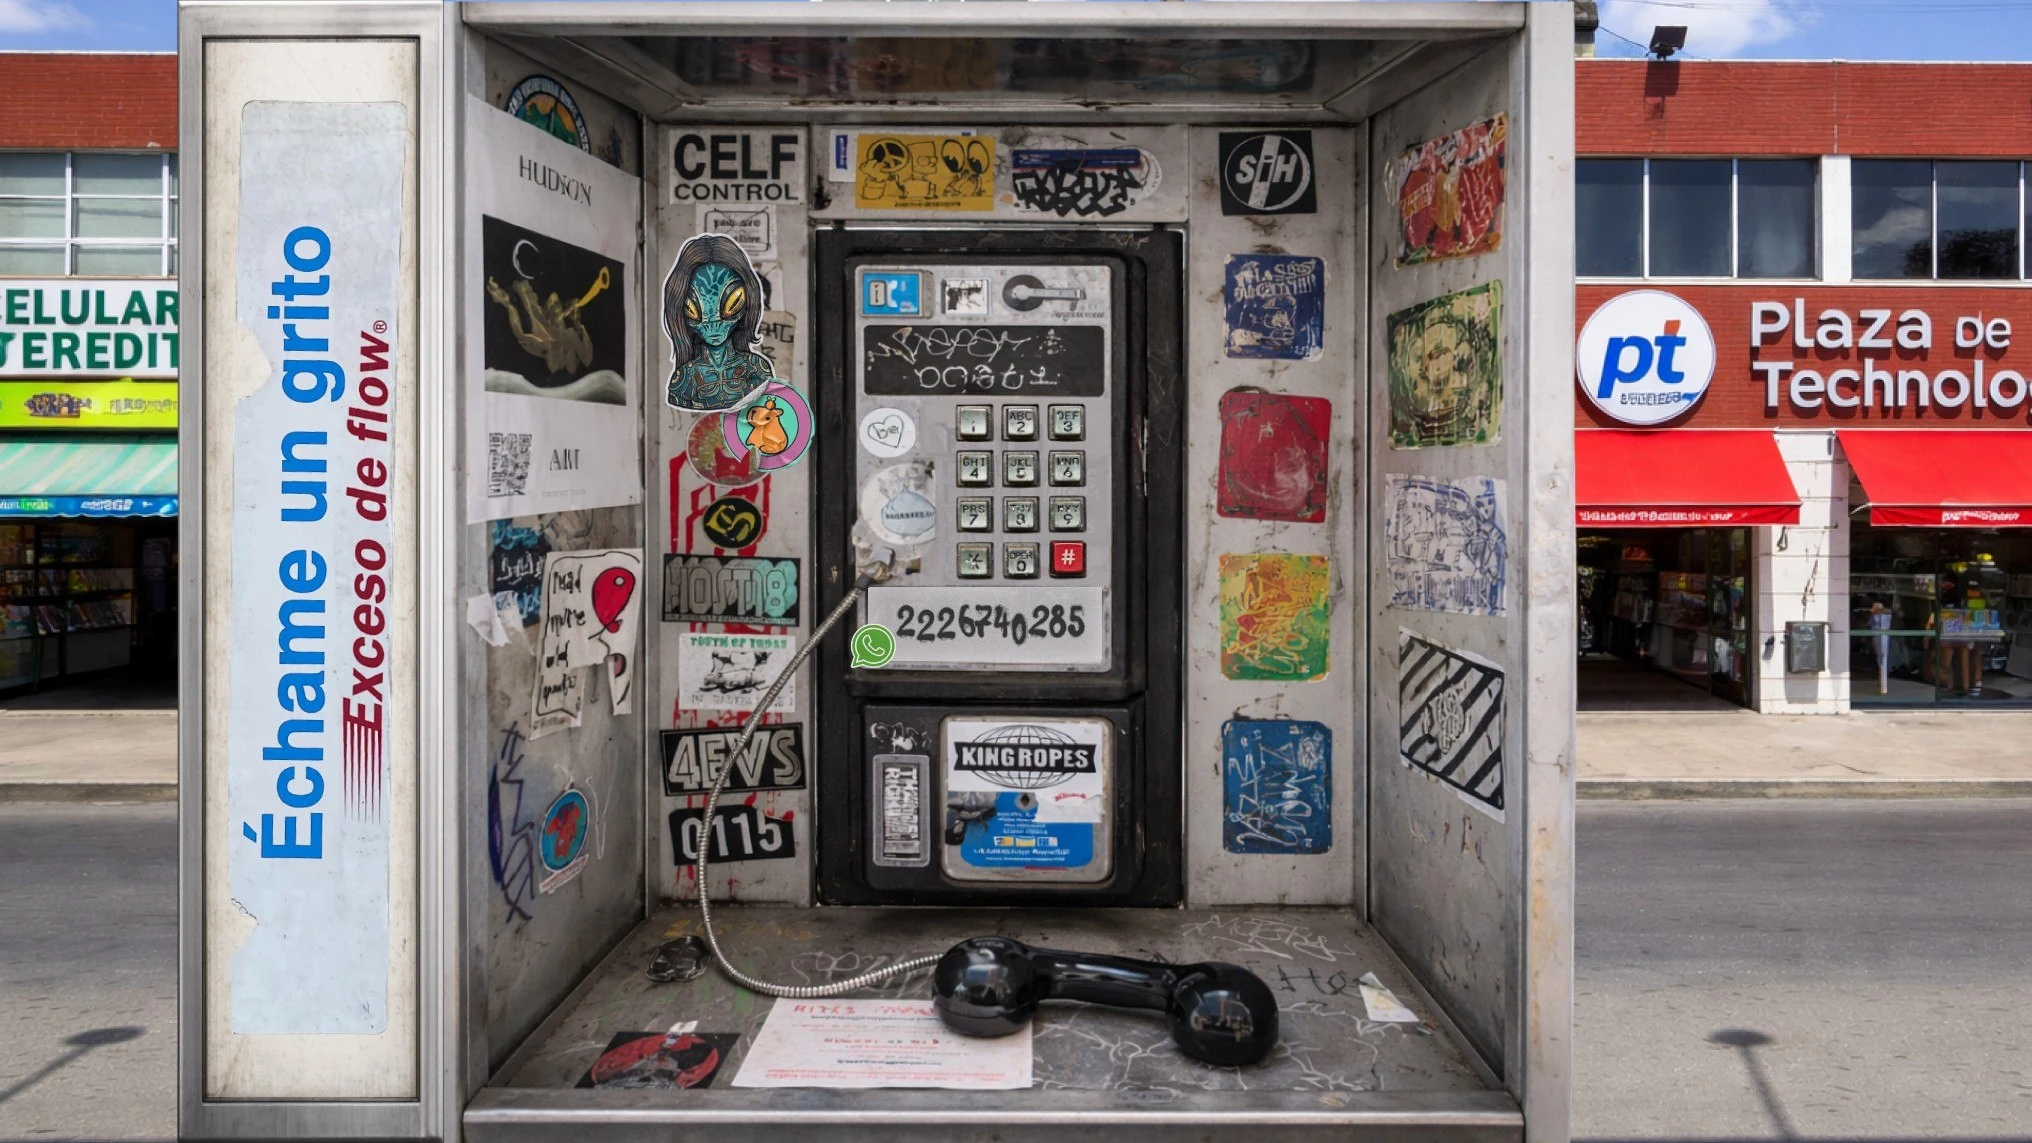
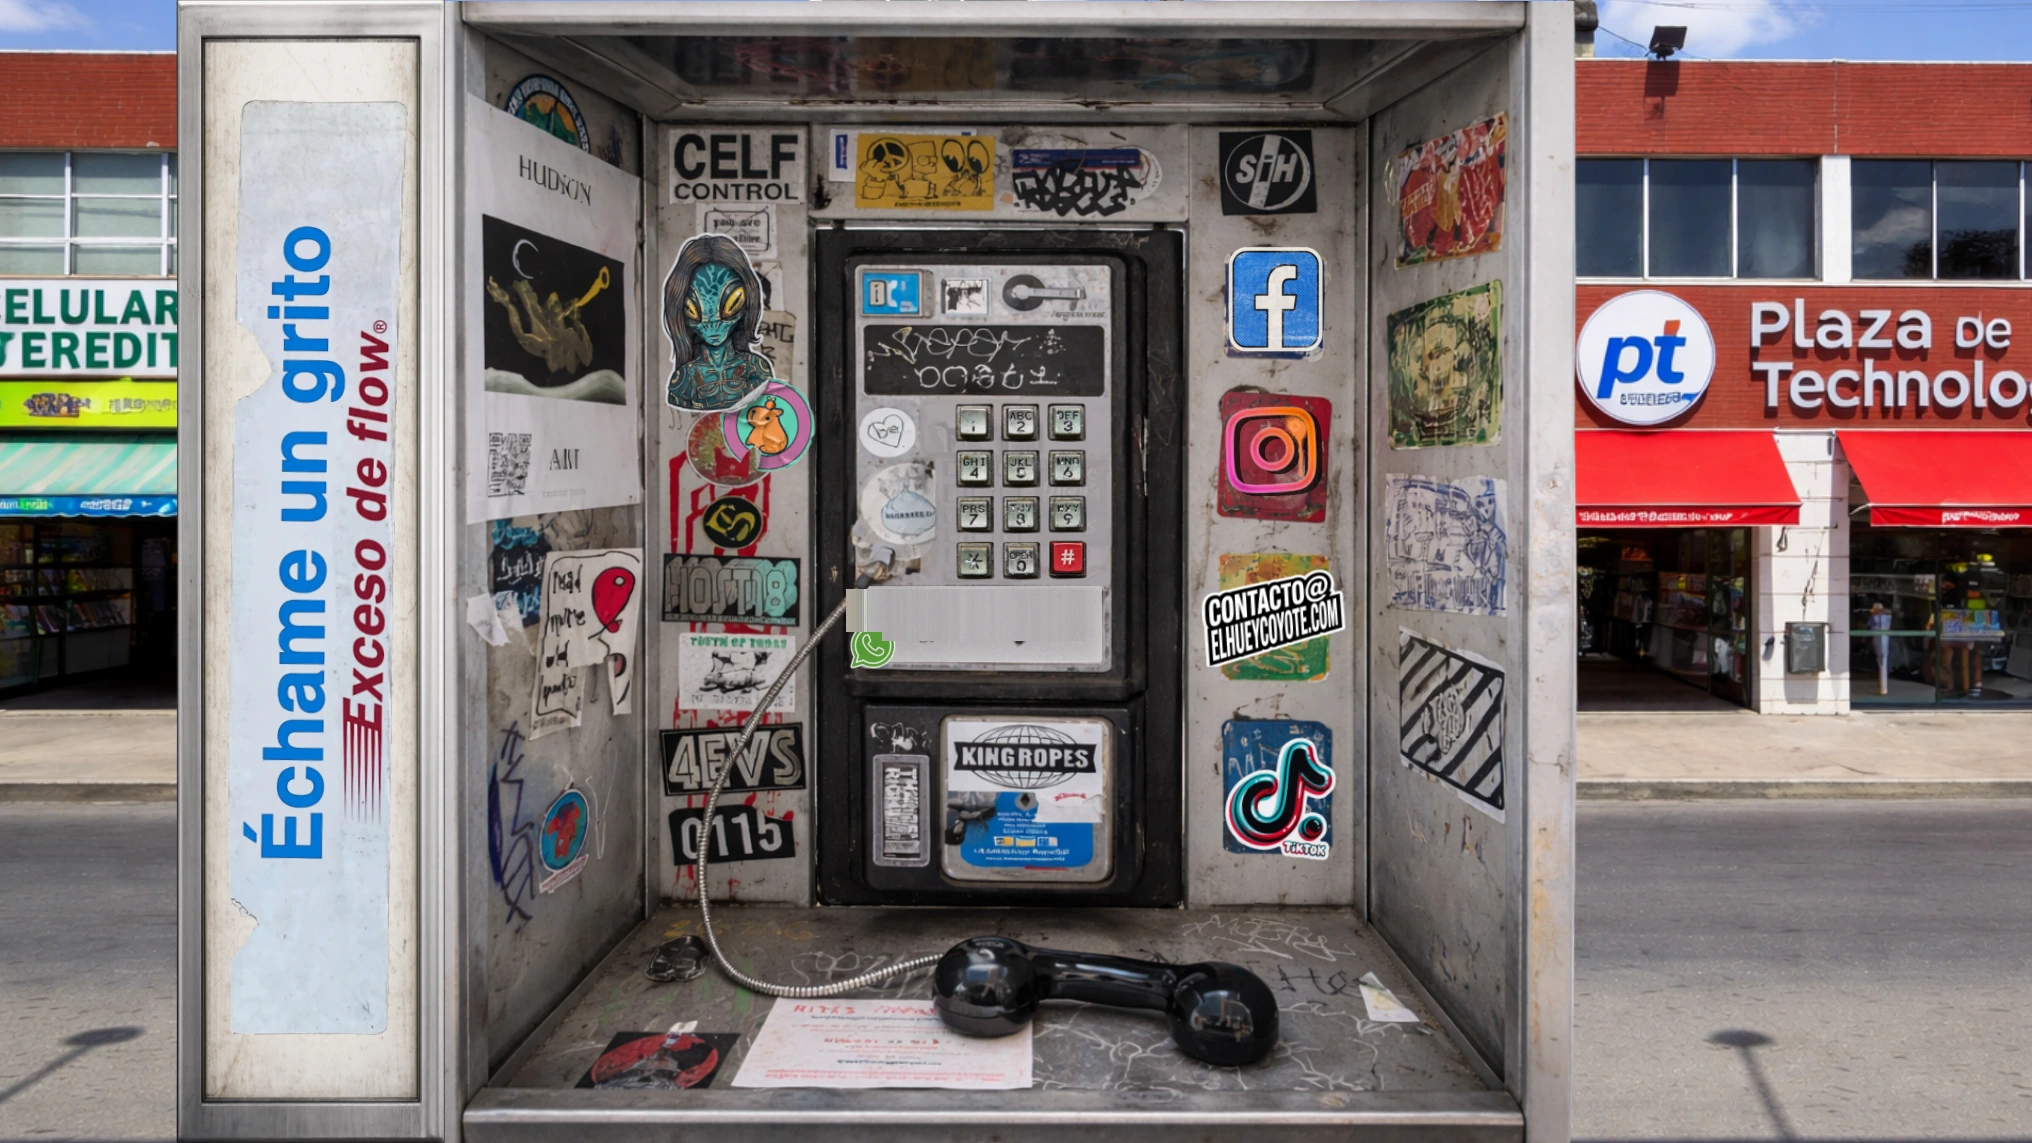
🐺 Compu: numero Echame un grito como texto vivo (brush-up + rayo), botones Merch en swiss-721 700, lista de 5 rolitas como movil

diff --git a/preview/compu/index.html b/preview/compu/index.html
@@ -126,7 +126,18 @@
   #sec-echame .ech-ig{left:59.068%;top:35.705%;width:6.014%;height:7.841%;transform:rotate(-1.4514deg)}
   #sec-echame .ech-email{left:58.852%;top:50.106%;width:7.047%;height:8.278%;transform:skewX(3.2793deg)}
   #sec-echame .ech-tt{left:61.042%;top:64.064%;width:5.143%;height:10.619%;transform:rotate(7.653deg)}
-  @media (prefers-reduced-motion:reduce){#sec-echame .ech-shine{animation:none}}
+  /* NÚMERO telefónico como TEXTO VIVO (brush-up, igual que la versión móvil) sobre la placa metálica,
+     para que el rayo de luz recorte las letras. Secuencia del rayo: Teléfono(0s)→FB(1.6s)→IG(3.2s)→Email(4.8s)→TikTok(6.4s). */
+  #sec-echame .ech-phone{position:absolute;left:47.86%;top:54.25%;transform:translate(-50%,-50%) rotate(-0.6deg);
+    font-family:'brush-up','swiss-721-bt',cursive;font-size:2.6cqw;line-height:1;white-space:nowrap;color:#2b2b2b;
+    -webkit-text-stroke:0.3px rgba(43,43,43,0.4);letter-spacing:0.01em;pointer-events:none;z-index:3}
+  #sec-echame .ech-phone::after{content:attr(data-text);position:absolute;left:0;top:0;width:100%;
+    background:linear-gradient(110deg,rgba(255,255,255,0) 44%,rgba(255,255,255,0.97) 50%,rgba(255,255,255,0) 56%);
+    background-repeat:no-repeat;background-size:260% 100%;background-position:190% 0;
+    -webkit-background-clip:text;background-clip:text;-webkit-text-fill-color:transparent;color:transparent;-webkit-text-stroke:0;
+    opacity:0;pointer-events:none;animation:phone-text-shine 8s ease-in-out infinite;animation-delay:0s}
+  @keyframes phone-text-shine{0%{background-position:190% 0;opacity:0}1%{opacity:1}20%{background-position:-70% 0;opacity:1}22%{opacity:0}100%{background-position:-70% 0;opacity:0}}
+  @media (prefers-reduced-motion:reduce){#sec-echame .ech-shine{animation:none}#sec-echame .ech-phone::after{animation:none}}
   /* === FOOTER (compu) — portado de la móvil, adaptado a escritorio === */
   .site-footer{width:100%;background-color:#1a1f1c;background-image:linear-gradient(rgba(18,24,21,.66),rgba(18,24,21,.66)),url('../sitio/assets/footer-fondo.webp?v=1');background-size:auto,cover;background-position:center,center bottom;background-repeat:no-repeat,no-repeat;border-top:4px solid #ffd84a;color:#fff;padding:clamp(34px,3.5vw,60px) 24px clamp(38px,4vw,64px);text-align:center;font-family:'Quicksand',sans-serif}
   .footer-inner{max-width:900px;margin:0 auto}
@@ -227,6 +238,14 @@
   body.music-open .music-panel{display:block}
   .music-panel .mclose{position:absolute;top:6px;right:10px;background:none;border:0;color:#fff;font-size:20px;cursor:pointer}
   .music-panel iframe{display:block;border:0;border-radius:10px}
+  .music-panel .panel-title{font-family:'eds-market-bold-slant','Oswald',sans-serif;color:#ffd84a;font-size:17px;text-align:center;margin:0 0 11px;letter-spacing:.03em}
+  .song-list{list-style:none;margin:0 0 8px;padding:0;display:flex;flex-direction:column;gap:7px}
+  .song-item{display:flex;align-items:center;gap:9px;width:100%;text-align:left;font-family:'eds-market-bold-slant','Oswald',sans-serif;font-size:15px;letter-spacing:.02em;line-height:1.15;color:#fff;background:#c4161c;border:2px solid #ffd84a;border-radius:24px;padding:10px 14px;cursor:pointer;transition:transform .15s ease,background .15s ease;-webkit-tap-highlight-color:transparent}
+  .song-item:hover{transform:translateX(3px)}
+  .song-item.active{background:#1a7a32}
+  .song-item .num{flex:0 0 auto;color:#ffd84a;font-size:14px;width:20px;text-align:center}
+  #membed{margin-top:8px}
+  #membed:empty{display:none}
 
   @media (prefers-reduced-motion:reduce){
     .dtrack,.music-fab,.music-fab .disc{animation:none}
@@ -275,7 +294,8 @@
 <a class="extra-logo" href="https://music.amazon.com.mx/artists/B07KSG7LGS/el-hueycoyote?marketplaceId=ART4WZ8MWBX2Y&musicTerritory=MX&ref=dm_sh_nvIOj96Q5Lv5ld4T6p6DruW9M" target="_blank" rel="noopener" aria-label="Amazon Music" style="left:85.0%;top:96.8%"><img src="../sitio/assets/compu/logo-amazon-music-white.webp?v=2" alt="Amazon Music" decoding="async"></a>
 </div></section>
 <div class="dmarquee" role="img" aria-label="Échame un grito"><div class="dtrack"><img src="../sitio/assets/compu/divtext-echame.png?v=10" alt="Échame un grito"><img src="../sitio/assets/compu/divtext-echame.png?v=10" alt="" aria-hidden="true"></div></div>
-<section class="dsec reveal" id="sec-echame"><img class="bg" src="../sitio/assets/compu/bg-echame.webp?v=9" alt="echame" loading="lazy" decoding="async"><div class="ovl">
+<section class="dsec reveal" id="sec-echame"><img class="bg" src="../sitio/assets/compu/bg-echame.webp?v=10" alt="echame" loading="lazy" decoding="async"><div class="ovl">
+  <span class="ech-phone" data-text="2226740285">2226740285</span>
   <a class="ech-btn ech-fb" href="https://www.facebook.com/ElHueyCoyote/?locale=es_LA" target="_blank" rel="noopener" aria-label="Facebook"><img src="../sitio/assets/compu/ech-fb-svg.webp?v=1" alt="" aria-hidden="true" loading="lazy"><span class="ech-shine" style="-webkit-mask-image:url('../sitio/assets/compu/ech-fb-svg.webp?v=1');mask-image:url('../sitio/assets/compu/ech-fb-svg.webp?v=1')"></span></a>
   <a class="ech-btn ech-ig" href="https://www.instagram.com/elhueycoyote_music?igsh=MTVzejkwbmZnMHhwOA==" target="_blank" rel="noopener" aria-label="Instagram"><img src="../sitio/assets/compu/ech-ig-svg.webp?v=1" alt="" aria-hidden="true" loading="lazy"><span class="ech-shine" style="-webkit-mask-image:url('../sitio/assets/compu/ech-ig-svg.webp?v=1');mask-image:url('../sitio/assets/compu/ech-ig-svg.webp?v=1')"></span></a>
   <a class="ech-btn ech-email" href="mailto:contacto@elhueycoyote.com" aria-label="Email contacto"><img src="../sitio/assets/compu/ech-email-svg.webp?v=1" alt="" aria-hidden="true" loading="lazy"><span class="ech-shine" style="-webkit-mask-image:url('../sitio/assets/compu/ech-email-svg.webp?v=1');mask-image:url('../sitio/assets/compu/ech-email-svg.webp?v=1')"></span></a>
@@ -315,12 +335,12 @@
 </div>
 <div class="dmarquee" role="img" aria-label="La Merch"><div class="dtrack"><img src="../sitio/assets/compu/divtext-merch.png?v=10" alt="La Merch"><img src="../sitio/assets/compu/divtext-merch.png?v=10" alt="" aria-hidden="true"></div></div>
 <section class="dsec reveal" id="sec-merch"><img class="bg" src="../sitio/assets/compu/bg-merch.webp?v=9" alt="merch" loading="lazy" decoding="async"><div class="ovl">
-<a class="ct merch-item pos-pirat-playeras" href="https://elhueycoyote.myshopify.com/" target="_blank" rel="noopener noreferrer" data-text="PLAYERAS :" style="left:15.10%;top:28.71%;font-size:2.21cqw;color:#1a1a1a;font-family:'swiss-721-bt',sans-serif;font-weight:500;font-style:italic;">PLAYERAS :</a>
-<a class="ct merch-item pos-pirat-chamarra" href="https://elhueycoyote.myshopify.com/" target="_blank" rel="noopener noreferrer" data-text="CHAMARRA :" style="left:15.10%;top:33.44%;font-size:2.21cqw;color:#1a1a1a;font-family:'swiss-721-bt',sans-serif;font-weight:500;font-style:italic;">CHAMARRA :</a>
-<a class="ct merch-item pos-pirat-calcetas" href="https://elhueycoyote.myshopify.com/" target="_blank" rel="noopener noreferrer" data-text="CALCETAS :" style="left:15.10%;top:38.16%;font-size:2.21cqw;color:#1a1a1a;font-family:'swiss-721-bt',sans-serif;font-weight:500;font-style:italic;">CALCETAS :</a>
-<a class="ct merch-item pos-orig-playeras" href="https://elhueycoyote.myshopify.com/" target="_blank" rel="noopener noreferrer" data-text="PLAYERAS :" style="left:58.20%;top:28.71%;font-size:2.21cqw;color:#1a1a1a;font-family:'swiss-721-bt',sans-serif;font-weight:500;font-style:italic;">PLAYERAS :</a>
-<a class="ct merch-item pos-orig-chamarra" href="https://elhueycoyote.myshopify.com/" target="_blank" rel="noopener noreferrer" data-text="CHAMARRA :" style="left:58.20%;top:33.44%;font-size:2.21cqw;color:#1a1a1a;font-family:'swiss-721-bt',sans-serif;font-weight:500;font-style:italic;">CHAMARRA :</a>
-<a class="ct merch-item pos-orig-calcetas" href="https://elhueycoyote.myshopify.com/" target="_blank" rel="noopener noreferrer" data-text="CALCETAS:" style="left:58.20%;top:38.16%;font-size:2.21cqw;color:#1a1a1a;font-family:'swiss-721-bt',sans-serif;font-weight:500;font-style:italic;">CALCETAS:</a>
+<a class="ct merch-item pos-pirat-playeras" href="https://elhueycoyote.myshopify.com/" target="_blank" rel="noopener noreferrer" data-text="PLAYERAS :" style="left:15.10%;top:28.71%;font-size:2.21cqw;color:#1a1a1a;font-family:'swiss-721-bt','Oswald',sans-serif;font-weight:700;font-style:italic;">PLAYERAS :</a>
+<a class="ct merch-item pos-pirat-chamarra" href="https://elhueycoyote.myshopify.com/" target="_blank" rel="noopener noreferrer" data-text="CHAMARRA :" style="left:15.10%;top:33.44%;font-size:2.21cqw;color:#1a1a1a;font-family:'swiss-721-bt','Oswald',sans-serif;font-weight:700;font-style:italic;">CHAMARRA :</a>
+<a class="ct merch-item pos-pirat-calcetas" href="https://elhueycoyote.myshopify.com/" target="_blank" rel="noopener noreferrer" data-text="CALCETAS :" style="left:15.10%;top:38.16%;font-size:2.21cqw;color:#1a1a1a;font-family:'swiss-721-bt','Oswald',sans-serif;font-weight:700;font-style:italic;">CALCETAS :</a>
+<a class="ct merch-item pos-orig-playeras" href="https://elhueycoyote.myshopify.com/" target="_blank" rel="noopener noreferrer" data-text="PLAYERAS :" style="left:58.20%;top:28.71%;font-size:2.21cqw;color:#1a1a1a;font-family:'swiss-721-bt','Oswald',sans-serif;font-weight:700;font-style:italic;">PLAYERAS :</a>
+<a class="ct merch-item pos-orig-chamarra" href="https://elhueycoyote.myshopify.com/" target="_blank" rel="noopener noreferrer" data-text="CHAMARRA :" style="left:58.20%;top:33.44%;font-size:2.21cqw;color:#1a1a1a;font-family:'swiss-721-bt','Oswald',sans-serif;font-weight:700;font-style:italic;">CHAMARRA :</a>
+<a class="ct merch-item pos-orig-calcetas" href="https://elhueycoyote.myshopify.com/" target="_blank" rel="noopener noreferrer" data-text="CALCETAS:" style="left:58.20%;top:38.16%;font-size:2.21cqw;color:#1a1a1a;font-family:'swiss-721-bt','Oswald',sans-serif;font-weight:700;font-style:italic;">CALCETAS:</a>
 <div class="ct" style="left:30.72%;top:28.71%;font-size:2.17cqw;color:#1a1a1a;font-family:'eds-market-bold-slant',sans-serif;font-weight:400;">$250</div>
 <div class="ct" style="left:30.16%;top:33.44%;font-size:2.17cqw;color:#1a1a1a;font-family:'eds-market-bold-slant',sans-serif;font-weight:400;">$350</div>
 <div class="ct" style="left:72.73%;top:28.71%;font-size:2.17cqw;color:#1a1a1a;font-family:'eds-market-bold-slant',sans-serif;font-weight:400;">$800</div>
@@ -356,7 +376,7 @@
 
   <!-- Botón de música -->
   <button class="music-fab" id="music-fab" aria-label="Pon una rolita"><span class="disc" aria-hidden="true"></span> Pon una rolita</button>
-  <div class="music-panel" id="music-panel"><button class="mclose" id="mclose" aria-label="Cerrar">✕</button><div id="membed"></div></div>
+  <div class="music-panel" id="music-panel"><button class="mclose" id="mclose" aria-label="Cerrar">✕</button><p class="panel-title">Las rolitas del HueyCoyote</p><ul class="song-list" id="song-list"></ul><div id="membed"></div></div>
 
   <script>
     document.body.classList.add('cortina-bajada');
@@ -469,11 +489,34 @@
       const mqob=new IntersectionObserver((es)=>{es.forEach(e=>{const t=e.target.querySelector('.dtrack');if(t)t.classList.toggle('mq-off',!e.isIntersecting);});},{rootMargin:'150px 0px'});
       document.querySelectorAll('.dmarquee').forEach(m=>mqob.observe(m));
     }
-    // Música (Spotify Tirando Flow Sesh #10)
+    // Música: lista de rolitas del Huey Coyote en Spotify (mismas que la versión móvil, orden pedido por Anette)
     const fab=document.getElementById('music-fab'),mp=document.getElementById('music-panel'),me=document.getElementById('membed');
-    const EMBED='<iframe style="border-radius:10px" width="100%" height="152" frameborder="0" allow="autoplay; clipboard-write; encrypted-media; fullscreen; picture-in-picture" loading="lazy" src="https://open.spotify.com/embed/track/6WmCmQuse2SjjSVab5EHxg?utm_source=generator"></iframe>';
-    fab.addEventListener('click',()=>{const o=document.body.classList.toggle('music-open');if(o&&!me.innerHTML)me.innerHTML=EMBED;});
-    document.getElementById('mclose').addEventListener('click',()=>{document.body.classList.remove('music-open');me.innerHTML='';});
+    const songListEl=document.getElementById('song-list');
+    const SONGS=[
+      {t:'Tirando Flow · Sesh #10',    id:'6WmCmQuse2SjjSVab5EHxg'},
+      {t:'Fantasías',                  id:'5eHegIfGPku1Jo70rRzv6k'},
+      {t:'Domingo Sin Bajón',          id:'3CsC05AC1I7KGaE2CyyGVf'},
+      {t:'El Corrido de Harry Potter', id:'5ttVu9xFETiJjKx0OmBKMz'},
+      {t:'Como un Ladrón',             id:'5HYLD6LFmwssarqIfYCrZe'},
+    ];
+    function spotifyEmbed(id){return '<iframe style="border-radius:10px" width="100%" height="152" frameborder="0" allow="autoplay; clipboard-write; encrypted-media; fullscreen; picture-in-picture" loading="lazy" src="https://open.spotify.com/embed/track/'+id+'?utm_source=generator"></iframe>';}
+    if(songListEl){
+      SONGS.forEach((s,i)=>{
+        const li=document.createElement('li');
+        const b=document.createElement('button');
+        b.type='button';b.className='song-item';
+        b.innerHTML='<span class="num">'+(i+1)+'</span><span>'+s.t+'</span>';
+        b.addEventListener('click',()=>{
+          document.querySelectorAll('.song-item').forEach(el=>el.classList.remove('active'));
+          b.classList.add('active');
+          me.innerHTML=spotifyEmbed(s.id);
+          fab.classList.add('playing');
+        });
+        li.appendChild(b);songListEl.appendChild(li);
+      });
+    }
+    fab.addEventListener('click',()=>{document.body.classList.toggle('music-open');});
+    document.getElementById('mclose').addEventListener('click',()=>{document.body.classList.remove('music-open');me.innerHTML='';document.querySelectorAll('.song-item').forEach(el=>el.classList.remove('active'));fab.classList.remove('playing');});
   </script>
 </body>
 </html>
